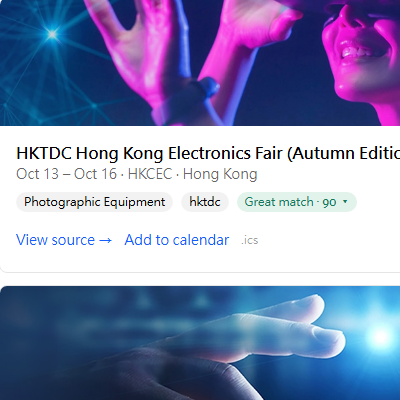
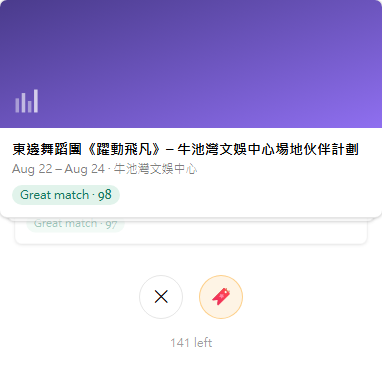
Add AI Regulation Radar and Command Deck; refresh + unhide Event Radar
Three new/refreshed project cards, all with real Playwright-captured
screenshots (not mockups):

- AI Regulation Radar: monitors EU AI Act/NIST AI RMF/HK PCPD, diffs
  legal text, generates RAG+LLM impact assessments. Screenshots show
  the real dual-hostname content-filtering architecture and an actual
  red/green diff of live EU AI Act text (Digital Omnibus amendment).
  Live-demo link only -- no GitHub repo exists for it yet.
- Command Deck: personal ops center evolved from a cost dashboard
  into real agent-safety infrastructure -- a deliberate quarantine/
  restart-eligibility gate. Screenshot captures a real quarantine
  lock actively engaged on a live service, not a staged state.
- Event Radar: unhidden and rewritten to reflect everything shipped
  since the card was last touched (embedding-ranking stage, closed
  feedback loop, hallucinated-ID rejection, 150 tests, production
  bugs found and fixed live). Live link now points to the public
  events-demo.carsonng.com instance (urbtix/data.gov.hk only) since
  the full instance is now Access-gated; screenshots recaptured from
  that same demo instance so what's shown matches what a visitor can
  actually reach. Added AI Governance tag given the real
  anti-hallucination guardrails on the ask feature and venue parsing.

All three verified end-to-end in-browser: images load, Live/GitHub
links resolve to the right short.gy targets, AI Governance filter
correctly returns 7 projects (4 existing + these 3).
[…]

diff --git a/assets/js/main.js b/assets/js/main.js
@@ -194,7 +194,7 @@ var tooltipList = tooltipTriggerList.map(function (tooltipTriggerEl) {
 })
 
 $(function () {
-	var folder = ['sprint_analyzer', 'change_impact_assessor', 'quant_dashboard', 'aws_code_review', 'study_platform', 'event_radar', 'moodle', 'thermometer', 'awc', 'dsj', 'erp', 'elpms', 'sensai', 'urbanp', 'ahkns', 'sb', 'stripe', 'lhc', 'nlc', 'mib', 'csb'];
+	var folder = ['sprint_analyzer', 'change_impact_assessor', 'quant_dashboard', 'aws_code_review', 'study_platform', 'event_radar', 'ai_regulation_radar', 'command_deck', 'moodle', 'thermometer', 'awc', 'dsj', 'erp', 'elpms', 'sensai', 'urbanp', 'ahkns', 'sb', 'stripe', 'lhc', 'nlc', 'mib', 'csb'];
 	var projects_path = 'assets/images/projects/';
 
 	var images = [];
@@ -203,7 +203,9 @@ $(function () {
 	images['quant_dashboard'] = ['board.png', 'signals_gates.png'];
 	images['aws_code_review'] = ['pr_overview.png', 'q_developer_review.png'];
 	images['study_platform'] = ['landing.png'];
-	images['event_radar'] = ['landing.png', 'insights.png'];
+	images['event_radar'] = ['landing.png', 'swipe.png'];
+	images['ai_regulation_radar'] = ['landing.png', 'diff_view.png'];
+	images['command_deck'] = ['landing.png', 'governance.png'];
 	images['moodle'] = ['landing_blurred.jpg', 'home_blurred.jpg', 'course_list_blurred.jpg', 'course_intro.png', 'resource_list_blurred.png', 'lib_admin.png', 'lib_records_blurred.png'];
 	images['thermometer'] = ['landing_large.jpg', 'indicator2.jpg', 'setup_cook.jpg', 'paired_devices.jpg', 'dark_mode.jpg'];
 	images['awc'] = ['landing.jpg', 'event_detail.jpg', 'popup.jpg', 'event_application.jpg', 'list_detail.jpg'];
@@ -226,7 +228,9 @@ $(function () {
 	titles['quant_dashboard'] = ['Live paper-trading dashboard', 'Deterministic risk-gate status per instrument'];
 	titles['aws_code_review'] = ['Real PR showing automated review bots', 'Amazon Q Developer security findings'];
 	titles['study_platform'] = ['Adaptive Study Platform dashboard'];
-	titles['event_radar'] = ['Event Radar event feed', 'LLM cost & latency observability'];
+	titles['event_radar'] = ['Event Radar public demo feed', 'Swipe-deck discovery mode'];
+	titles['ai_regulation_radar'] = ['AI Regulation Radar tracked sources', 'Real EU AI Act diff, old vs. new text'];
+	titles['command_deck'] = ['Command Deck fleet overview', 'Governance tab — active quarantine/lock state'];
 	titles['moodle'] = ['Landing page', 'Home page', 'Course list', 'Course introduction', 'Resource list page', 'Links for Library admin role', 'Library book record list page']
 	titles['thermometer'] = ['indicator 1', 'indicator 2', 'Setup Cook', 'Paired device list', 'Dark Mode'];
 	titles['awc'] = ['Landing page', 'Event detail', 'Popup', 'Event Application', 'List detail'];
@@ -250,6 +254,8 @@ $(function () {
 	covers['aws_code_review'] = ['cover_thumb.png'];
 	covers['study_platform'] = ['cover_thumb.png'];
 	covers['event_radar'] = ['cover_thumb.png'];
+	covers['ai_regulation_radar'] = ['cover_thumb.png'];
+	covers['command_deck'] = ['cover_thumb.png'];
 	covers['moodle'] = 'landing_blurred_thumb.jpg';
 	covers['thermometer'] = ['landing.jpg'];
 	covers['awc'] = ['logo.jpg'];
@@ -369,15 +375,15 @@ $(function () {
 			}
 			],
 			'tags': ['Agentic-AI Engineering', 'Cloud/DevOps']
-		}, {
+		}, */ {
 			'title': 'Event Radar — AI Event Discovery',
-			'description': 'An AI-powered event discovery assistant for Hong Kong that I conceived, built, and now operate end-to-end: tell it what you\'re into and it surfaces matching events, ranked and explained by an LLM via two-stage ranking (cheap keyword filter, then LLM rerank only on the shortlist) to keep API costs sane.<br><br>Every LLM call degrades gracefully on rate limits or failures instead of taking the app down, and a closed feedback loop (thumbs up/down) adjusts per-user interest weights over time — shipped, monitored, and iterated on as a real product.',
+			'description': 'An AI-powered event discovery assistant for Hong Kong that I conceived, built, and now operate end-to-end: tell it what you\'re into and it surfaces matching events, ranked and explained by an LLM via two-stage-plus-embedding ranking (keyword filter → semantic similarity → LLM rerank on the shortlist only) to keep API costs sane. A closed feedback loop (thumbs up/down) adjusts per-user interest weights over time, and every LLM-referenced event is validated against the real candidate set before being trusted — hallucinated IDs are rejected, not displayed.<br><br>150 tests, a bilingual disclaimer, and Crawl-delay-compliant scraping — operated, not just shipped once: real production bugs found and fixed live, including a missing Cache-Control header silently serving stale JS to every visitor and an HKT day-boundary bug undercounting daily LLM usage.',
 			'thumbnail': thumbnail_paths['event_radar'],
 			'large': large_paths['event_radar'],
 			'img_title': titles['event_radar'],
 			'button_list': [{
-				'title': 'Live',
-				'url': 'https://carsonng.short.gy/event-radar-live',
+				'title': 'Live Demo',
+				'url': 'https://carsonng.short.gy/event-radar-demo',
 				'new_window': true
 			}, {
 				'title': 'GitHub',
@@ -385,8 +391,38 @@ $(function () {
 				'new_window': true
 			}
 			],
-			'tags': ['Agentic-AI Engineering', 'Technical Leadership']
-		}, */ {
+			'tags': ['Agentic-AI Engineering', 'AI Governance', 'Technical Leadership']
+		}, {
+			'title': 'AI Regulation Radar',
+			'description': 'Monitors EU AI Act, NIST AI RMF, and HK PCPD regulatory sources, diffs legal text changes, and generates plain-English impact assessments via RAG + LLM. Public and private views are the same running app filtered by content sensitivity, not just access — a real architectural split between who can reach it and what they\'re shown.<br><br>Deployed on its own GCP VM behind systemd + a dedicated Cloudflare Tunnel, with a daily cron-driven check pipeline monitoring 4 regulatory sources for real text changes.',
+			'thumbnail': thumbnail_paths['ai_regulation_radar'],
+			'large': large_paths['ai_regulation_radar'],
+			'img_title': titles['ai_regulation_radar'],
+			'button_list': [{
+				'title': 'Live Demo',
+				'url': 'https://carsonng.short.gy/ai-regulation-radar',
+				'new_window': true
+			}
+			],
+			'tags': ['AI Governance', 'Agentic-AI Engineering', 'Cloud/DevOps']
+		}, {
+			'title': 'Command Deck',
+			'description': 'A personal ops center for a small fleet of live services: cross-project LLM cost tracking, service-health monitoring, and Telegram alerting, evolved into real agent-safety infrastructure. A deliberate quarantine/restart-eligibility gate distinguishes "an operator paused this on purpose" from "this process is actually dead," so automated recovery never fights a deliberate hold.<br><br>Monitors 9 services across the whole personal SaaS fleet with live uptime tracking, auto-heal, and an incident log — the Governance tab shown here captures a real quarantine lock engaged on a live service, not a mocked-up state.',
+			'thumbnail': thumbnail_paths['command_deck'],
+			'large': large_paths['command_deck'],
+			'img_title': titles['command_deck'],
+			'button_list': [{
+				'title': 'Live Demo',
+				'url': 'https://carsonng.short.gy/command-deck',
+				'new_window': true
+			}, {
+				'title': 'GitHub',
+				'url': 'https://carsonng.short.gy/command-deck-github',
+				'new_window': true
+			}
+			],
+			'tags': ['AI Governance', 'Cloud/DevOps', 'Technical Leadership']
+		}, {
 			'title': 'e-Learning for HKSARS',
 			'description': 'Government-adopted Moodle-based learning management system for HKSAR — I led the Moodle v2 → v3 upgrade using Node.js and MongoDB, supporting 500+ daily users at 99% uptime.<br><br>Plugin and theme customization delivered to meet specific government requirements; code or interface access can be demonstrated upon request.',
 			'thumbnail': thumbnail_paths['moodle'],

diff --git a/README.md b/README.md
@@ -23,6 +23,9 @@ The common thread: governance mechanisms that are load-bearing parts of the syst
 | **AWS AI Code Review & Security Scanning Demo** | Automated PR gate combining Amazon Q Developer (AI code review) and Amazon Inspector (security scanning). Real example: the bots caught an over-privileged IAM role, a vulnerable dependency, and a missing CloudFormation security property before merge. | [GitHub](https://carsonng.short.gy/aws-code-review-github) |
 | **Quantitative Trade-Analysis Platform** | Research-driven trading platform for a diversified 22-ETF book: a walk-forward, deflated-Sharpe-tested backtester proves an edge before capital is risked; a multi-agent LLM analyst feeds a deterministic risk gate; the live dashboard now trades real money on Interactive Brokers alongside an isolated paper account. The public dashboard's "Signals & Gates" view shows the deterministic gate live — the exact reason a trade is blocked, not just pass/fail. 80+ strategy ideas tested — only one core edge survived. | [Paper Account](https://carsonng.short.gy/quant) · [GitHub](https://carsonng.short.gy/quant-trade-analysis-github) |
 | **Sprint Analyzer** | AI sprint retrospective generator with a deterministic-numbers / LLM-prose split — pandas computes every metric from Jira/ClickUp exports, the LLM only writes prose. 110+ unit tests run without an API key. | [Live demo](https://carsonng.short.gy/sprint-analyzer) · [GitHub](https://carsonng.short.gy/sprint-analyzer-carsonng) |
+| **Event Radar** | AI-powered event discovery for Hong Kong: two-stage-plus-embedding LLM ranking, a closed feedback loop, and hallucinated-event-ID rejection on every LLM-referenced result. 150 tests, bilingual disclaimer, Crawl-delay-compliant scraping. | [Live demo](https://carsonng.short.gy/event-radar-demo) · [GitHub](https://carsonng.short.gy/event-radar-github) |
+| **AI Regulation Radar** | Monitors EU AI Act, NIST AI RMF, and HK PCPD sources, diffs legal text changes, and generates plain-English impact assessments via RAG + LLM. Public/private views are the same app filtered by content sensitivity, not just access. | [Live demo](https://carsonng.short.gy/ai-regulation-radar) |
+| **Command Deck** | A personal ops center for a small service fleet: cross-project LLM cost tracking, health monitoring, alerting, and a deliberate quarantine/restart-eligibility gate distinguishing an intentional pause from a genuine liveness failure. | [Live demo](https://carsonng.short.gy/command-deck) · [GitHub](https://carsonng.short.gy/command-deck-github) |
 
 ## Skills
 
